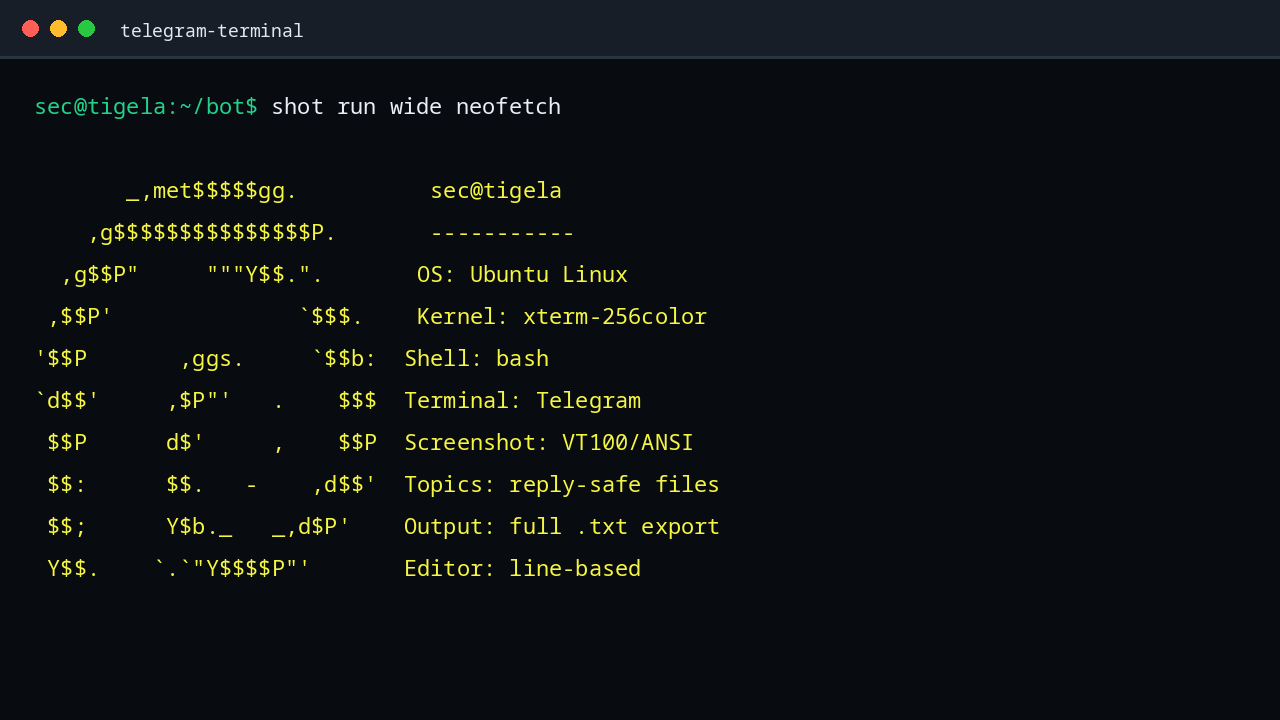
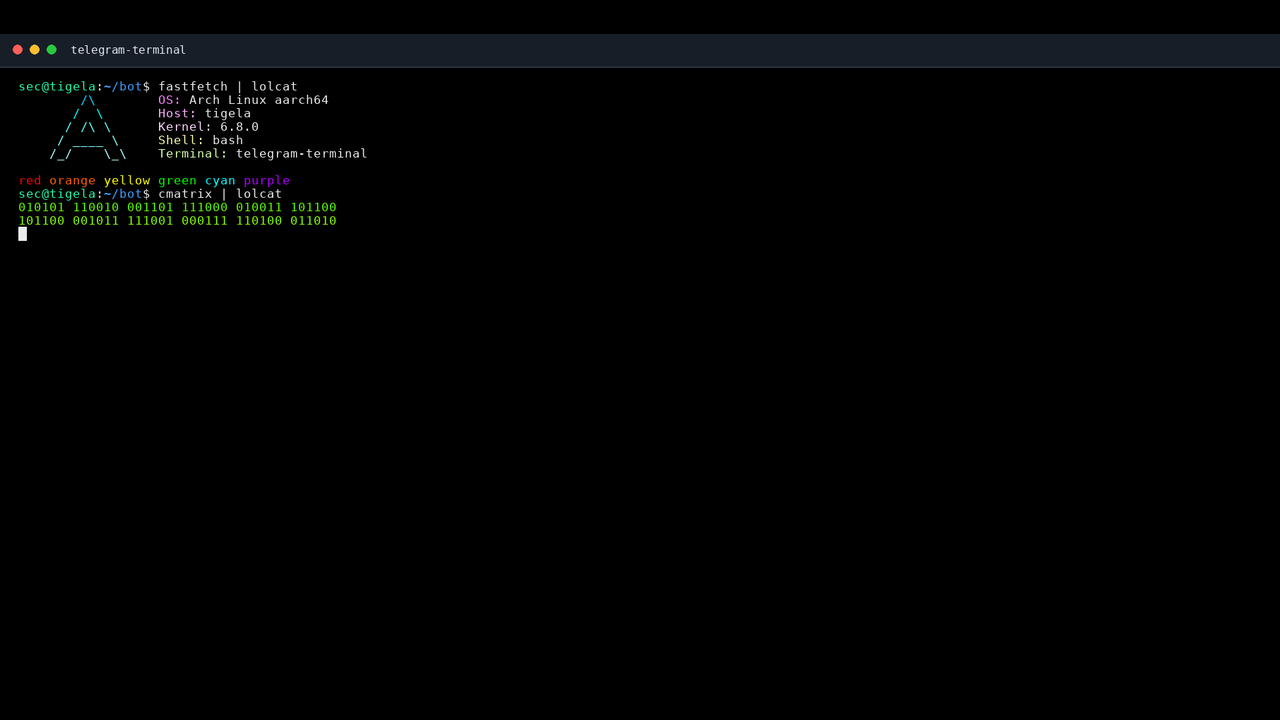
Refresh terminal screenshot theme

diff --git a/telegram-terminal.py b/telegram-terminal.py
@@ -104,9 +104,9 @@ SHELL_WATCHDOG_POLL_INTERVAL = 10
 SHOT_THEMES = {
     "black": {
         "bg": (0, 0, 0),
-        "bar": (0, 0, 0),
-        "line": (32, 32, 32),
-        "title": (230, 230, 230),
+        "bar": (24, 30, 39),
+        "line": (42, 52, 65),
+        "title": (226, 232, 240),
         "text": (235, 235, 235),
         "cursor": (235, 235, 235),
         "cursor_text": (0, 0, 0),